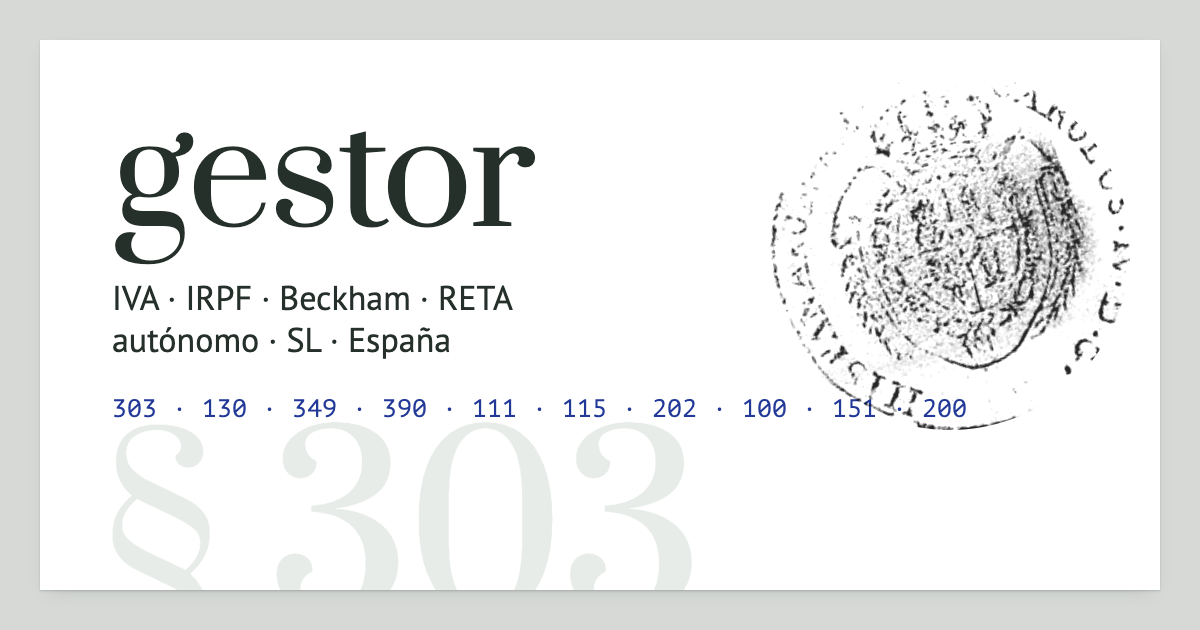
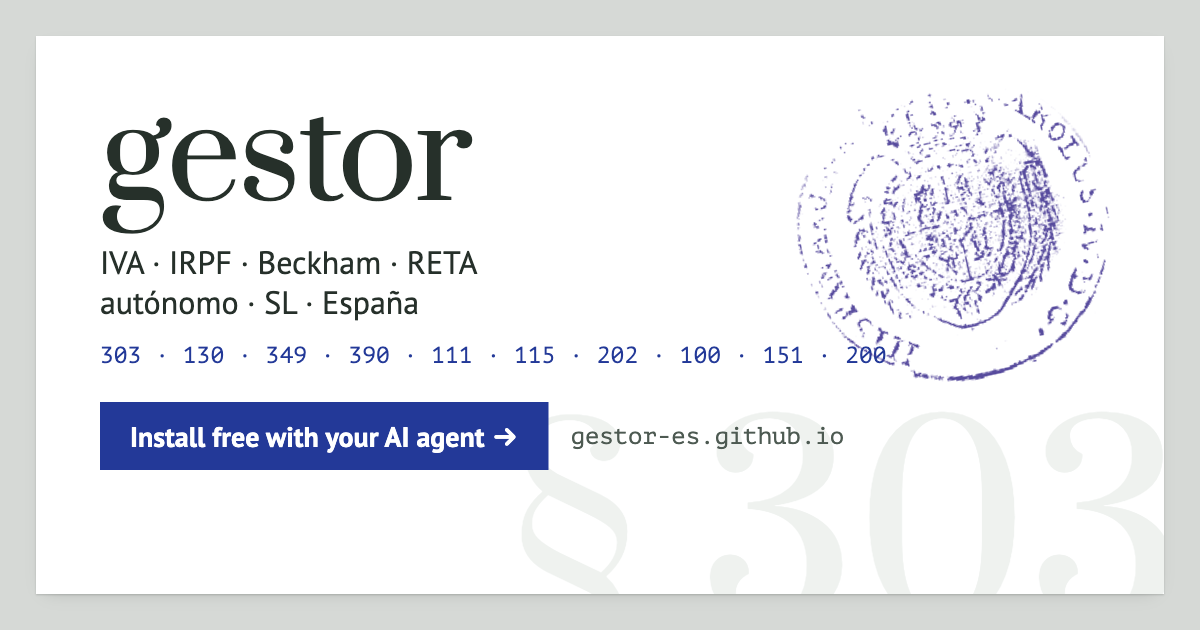
fix: stamp-ink seal, OG image with call to action, shorter descriptions

diff --git a/ru/explainer/index.html b/ru/explainer/index.html
@@ -4,7 +4,7 @@
 <meta charset="utf-8">
 <meta name="viewport" content="width=device-width, initial-scale=1">
 <title>Как работает gestor: один счёт и один квартал на вымышленном профиле</title>
-<meta name="description" content="Как работает gestor на вымышленном autónomo в режиме Beckham: из чего состоит программа, путь одного счёта до модели 303 и разобранный квартал с законом за каждой суммой.">
+<meta name="description" content="Как работает gestor на вымышленном autónomo в Beckham: части программы, путь счёта до модели 303 и квартал с законом за каждой суммой.">
 <link rel="canonical" href="https://gestor-es.github.io/ru/explainer/">
 <link rel="alternate" hreflang="en" href="https://gestor-es.github.io/explainer/">
 <link rel="alternate" hreflang="es" href="https://gestor-es.github.io/es/explainer/">
@@ -16,8 +16,8 @@
 <meta property="og:locale" content="ru_RU">
 <meta property="og:url" content="https://gestor-es.github.io/ru/explainer/">
 <meta property="og:title" content="Как работает gestor: один счёт и один квартал на вымышленном профиле">
-<meta property="og:description" content="Как работает gestor на вымышленном autónomo в режиме Beckham: из чего состоит программа, путь одного счёта до модели 303 и разобранный квартал с законом за каждой суммой.">
-<meta property="og:image" content="https://gestor-es.github.io/og.png">
+<meta property="og:description" content="Как работает gestor на вымышленном autónomo в Beckham: части программы, путь счёта до модели 303 и квартал с законом за каждой суммой.">
+<meta property="og:image" content="https://gestor-es.github.io/og.png?v=2">
 <meta name="twitter:card" content="summary_large_image">
 <script type="application/ld+json">
 {
@@ -29,7 +29,7 @@
    "description": "Как работает gestor на вымышленном autónomo в режиме Beckham: из чего состоит программа, путь одного счёта до модели 303 и разобранный квартал с законом за каждой суммой.",
    "inLanguage": "ru",
    "url": "https://gestor-es.github.io/ru/explainer/",
-   "image": "https://gestor-es.github.io/og.png",
+   "image": "https://gestor-es.github.io/og.png?v=2",
    "dateModified": "2026-10-13",
    "author": {
     "@type": "Organization",

diff --git a/ru/index.html b/ru/index.html
@@ -4,7 +4,7 @@
 <meta charset="utf-8">
 <meta name="viewport" content="width=device-width, initial-scale=1">
 <title>gestor: бесплатный локальный налоговый помощник для autónomo и SL в Испании</title>
-<meta name="description" content="Бесплатный gestor с открытым кодом для autónomo и SL в Испании. Считает IVA, IRPF, Beckham, RETA и модели 303, 130, 349, 390, 111, 115, 202 и объясняет каждую сумму законом. Работает на вашем компьютере, ставит его ваш ИИ-агент.">
+<meta name="description" content="Бесплатный налоговый помощник с открытым кодом для autónomo и SL в Испании: IVA, IRPF, Beckham, RETA, модели 303 и 130, с законом за каждой суммой.">
 <link rel="canonical" href="https://gestor-es.github.io/ru/">
 <link rel="alternate" hreflang="en" href="https://gestor-es.github.io/">
 <link rel="alternate" hreflang="es" href="https://gestor-es.github.io/es/">
@@ -17,7 +17,7 @@
 <meta property="og:url" content="https://gestor-es.github.io/ru/">
 <meta property="og:title" content="gestor: бесплатный локальный налоговый помощник для autónomo и SL в Испании">
 <meta property="og:description" content="Считает ваши декларации и объясняет каждую сумму законом. Подаёте вы сами. Открытый код, MIT.">
-<meta property="og:image" content="https://gestor-es.github.io/og.png">
+<meta property="og:image" content="https://gestor-es.github.io/og.png?v=2">
 <meta property="og:image:width" content="1200">
 <meta property="og:image:height" content="630">
 <meta property="og:image:alt" content="gestor: IVA, IRPF, Beckham, RETA для autónomo и SL в Испании">
@@ -32,7 +32,7 @@
       "@id": "https://gestor-es.github.io/#app",
       "name": "gestor",
       "url": "https://gestor-es.github.io/ru/",
-      "image": "https://gestor-es.github.io/og.png",
+      "image": "https://gestor-es.github.io/og.png?v=2",
       "description": "Локальный gestor для autónomo и SL в Испании: счета, расходы, IVA/IRPF/Beckham/SL, RETA и календарь подач. Считает декларации и объясняет каждую сумму законом; подаёт пользователь сам.",
       "applicationCategory": "FinanceApplication",
       "operatingSystem": "Любая система с Python 3.12+",

diff --git a/es/explainer/index.html b/es/explainer/index.html
@@ -4,7 +4,7 @@
 <meta charset="utf-8">
 <meta name="viewport" content="width=device-width, initial-scale=1">
 <title>Cómo funciona gestor: una factura y un trimestre con un perfil ficticio</title>
-<meta name="description" content="Cómo funciona gestor con un autónomo ficticio en régimen Beckham: las partes del programa, el recorrido de una factura hasta el modelo 303 y un trimestre resuelto con la norma detrás de cada importe.">
+<meta name="description" content="Cómo funciona gestor con un autónomo ficticio en Beckham: las partes, una factura hasta el modelo 303 y un trimestre con la norma detrás de cada importe.">
 <link rel="canonical" href="https://gestor-es.github.io/es/explainer/">
 <link rel="alternate" hreflang="en" href="https://gestor-es.github.io/explainer/">
 <link rel="alternate" hreflang="es" href="https://gestor-es.github.io/es/explainer/">
@@ -16,8 +16,8 @@
 <meta property="og:locale" content="es_ES">
 <meta property="og:url" content="https://gestor-es.github.io/es/explainer/">
 <meta property="og:title" content="Cómo funciona gestor: una factura y un trimestre con un perfil ficticio">
-<meta property="og:description" content="Cómo funciona gestor con un autónomo ficticio en régimen Beckham: las partes del programa, el recorrido de una factura hasta el modelo 303 y un trimestre resuelto con la norma detrás de cada importe.">
-<meta property="og:image" content="https://gestor-es.github.io/og.png">
+<meta property="og:description" content="Cómo funciona gestor con un autónomo ficticio en Beckham: las partes, una factura hasta el modelo 303 y un trimestre con la norma detrás de cada importe.">
+<meta property="og:image" content="https://gestor-es.github.io/og.png?v=2">
 <meta name="twitter:card" content="summary_large_image">
 <script type="application/ld+json">
 {
@@ -29,7 +29,7 @@
    "description": "Cómo funciona gestor con un autónomo ficticio en régimen Beckham: las partes del programa, el recorrido de una factura hasta el modelo 303 y un trimestre resuelto con la norma detrás de cada importe.",
    "inLanguage": "es",
    "url": "https://gestor-es.github.io/es/explainer/",
-   "image": "https://gestor-es.github.io/og.png",
+   "image": "https://gestor-es.github.io/og.png?v=2",
    "dateModified": "2026-10-13",
    "author": {
     "@type": "Organization",

diff --git a/explainer/index.html b/explainer/index.html
@@ -4,7 +4,7 @@
 <meta charset="utf-8">
 <meta name="viewport" content="width=device-width, initial-scale=1">
 <title>How gestor works: one invoice and one quarter on a fictional profile</title>
-<meta name="description" content="How gestor works on a fictional autónomo under the Beckham regime: the parts of the program, the path of one invoice into Modelo 303, and a quarter worked through with the law behind each amount.">
+<meta name="description" content="How gestor works on a fictional autónomo under Beckham: the parts of the program, one invoice into Modelo 303, and a quarter with the law behind each amount.">
 <link rel="canonical" href="https://gestor-es.github.io/explainer/">
 <link rel="alternate" hreflang="en" href="https://gestor-es.github.io/explainer/">
 <link rel="alternate" hreflang="es" href="https://gestor-es.github.io/es/explainer/">
@@ -16,8 +16,8 @@
 <meta property="og:locale" content="en_US">
 <meta property="og:url" content="https://gestor-es.github.io/explainer/">
 <meta property="og:title" content="How gestor works: one invoice and one quarter on a fictional profile">
-<meta property="og:description" content="How gestor works on a fictional autónomo under the Beckham regime: the parts of the program, the path of one invoice into Modelo 303, and a quarter worked through with the law behind each amount.">
-<meta property="og:image" content="https://gestor-es.github.io/og.png">
+<meta property="og:description" content="How gestor works on a fictional autónomo under Beckham: the parts of the program, one invoice into Modelo 303, and a quarter with the law behind each amount.">
+<meta property="og:image" content="https://gestor-es.github.io/og.png?v=2">
 <meta name="twitter:card" content="summary_large_image">
 <script type="application/ld+json">
 {
@@ -29,7 +29,7 @@
    "description": "How gestor works on a fictional autónomo under the Beckham regime: the parts of the program, the path of one invoice into Modelo 303, and a quarter worked through with the law behind each amount.",
    "inLanguage": "en",
    "url": "https://gestor-es.github.io/explainer/",
-   "image": "https://gestor-es.github.io/og.png",
+   "image": "https://gestor-es.github.io/og.png?v=2",
    "dateModified": "2026-10-13",
    "author": {
     "@type": "Organization",

diff --git a/es/index.html b/es/index.html
@@ -4,7 +4,7 @@
 <meta charset="utf-8">
 <meta name="viewport" content="width=device-width, initial-scale=1">
 <title>gestor: app fiscal gratuita y local para autónomos y SL en España</title>
-<meta name="description" content="Gestor gratuito y de código abierto para autónomos y SL en España. Calcula IVA, IRPF, Beckham, RETA y los modelos 303, 130, 349, 390, 111, 115 y 202 con la norma detrás de cada importe. Funciona en local; lo instala su agente de IA.">
+<meta name="description" content="App fiscal gratuita y de código abierto para autónomos y SL: IVA, IRPF, Beckham, RETA, modelos 303 y 130, con la norma detrás de cada importe. En local.">
 <link rel="canonical" href="https://gestor-es.github.io/es/">
 <link rel="alternate" hreflang="en" href="https://gestor-es.github.io/">
 <link rel="alternate" hreflang="es" href="https://gestor-es.github.io/es/">
@@ -17,7 +17,7 @@
 <meta property="og:url" content="https://gestor-es.github.io/es/">
 <meta property="og:title" content="gestor: app fiscal gratuita y local para autónomos y SL en España">
 <meta property="og:description" content="Calcula sus declaraciones y explica cada importe con la norma. La presentación la hace usted. Código abierto, MIT.">
-<meta property="og:image" content="https://gestor-es.github.io/og.png">
+<meta property="og:image" content="https://gestor-es.github.io/og.png?v=2">
 <meta property="og:image:width" content="1200">
 <meta property="og:image:height" content="630">
 <meta property="og:image:alt" content="gestor: IVA, IRPF, Beckham, RETA para autónomos y SL en España">
@@ -32,7 +32,7 @@
       "@id": "https://gestor-es.github.io/#app",
       "name": "gestor",
       "url": "https://gestor-es.github.io/es/",
-      "image": "https://gestor-es.github.io/og.png",
+      "image": "https://gestor-es.github.io/og.png?v=2",
       "description": "Gestor local para autónomos y SL en España: facturas, gastos, IVA/IRPF/Beckham/SL, RETA y calendario de presentaciones. Calcula las declaraciones y explica cada importe con la norma; la presentación la hace el usuario.",
       "applicationCategory": "FinanceApplication",
       "operatingSystem": "Cualquier sistema con Python 3.12+",

diff --git a/index.html b/index.html
@@ -4,7 +4,7 @@
 <meta charset="utf-8">
 <meta name="viewport" content="width=device-width, initial-scale=1">
 <title>gestor: free local tax app for autónomos and SLs in Spain</title>
-<meta name="description" content="Free, open-source gestor for autónomos and SLs in Spain. Computes IVA, IRPF, Beckham, RETA and Modelos 303, 130, 349, 390, 111, 115, 202 with the law behind every amount. Runs locally; your AI agent installs it.">
+<meta name="description" content="Free open-source tax app for autónomos and SLs in Spain: IVA, IRPF, Beckham, RETA, Modelo 303 and 130, with the law behind every amount. Runs locally.">
 <meta name="google-site-verification" content="sjse89eWj43Bo3XVdXr1GHbNTwViSiH6IMM6jxyB80k">
 <link rel="canonical" href="https://gestor-es.github.io/">
 <link rel="alternate" hreflang="en" href="https://gestor-es.github.io/">
@@ -18,7 +18,7 @@
 <meta property="og:url" content="https://gestor-es.github.io/">
 <meta property="og:title" content="gestor: free local tax app for autónomos and SLs in Spain">
 <meta property="og:description" content="Computes your Spanish returns and explains every amount with the law. You file them yourself. Open source, MIT.">
-<meta property="og:image" content="https://gestor-es.github.io/og.png">
+<meta property="og:image" content="https://gestor-es.github.io/og.png?v=2">
 <meta property="og:image:width" content="1200">
 <meta property="og:image:height" content="630">
 <meta property="og:image:alt" content="gestor: IVA, IRPF, Beckham, RETA for autónomos and SLs in Spain">
@@ -48,7 +48,7 @@
       "@id": "https://gestor-es.github.io/#app",
       "name": "gestor",
       "url": "https://gestor-es.github.io/",
-      "image": "https://gestor-es.github.io/og.png",
+      "image": "https://gestor-es.github.io/og.png?v=2",
       "description": "Local gestor for autónomos and SLs in Spain: invoices, expenses, IVA/IRPF/Beckham/SL, RETA and a filing calendar. Computes returns and explains every amount with the law; the user files them.",
       "applicationCategory": "FinanceApplication",
       "operatingSystem": "Any OS with Python 3.12+",

diff --git a/style.css b/style.css
@@ -32,11 +32,10 @@ h2 { margin: 14px 0 12px; font: 400 32px/1.15 var(--display); }
 .lead { max-width: 36em; margin: 0 0 20px; font-size: 20px; line-height: 1.45; }
 .sub { max-width: 44em; margin: 0 0 18px; color: var(--print-2); }
 
-/* hero: the coat-of-arms seal from the papel sellado, struck over the corner of the sheet */
+/* hero: the coat-of-arms seal of the papel sellado (Carolus IV, 1806, public domain), extracted as stamp ink (img/seal.png, 232 px) */
 .hero { position: relative; padding-bottom: 8px; }
-.seal { position: absolute; top: -18px; right: -8px; width: 300px; aspect-ratio: 1; border-radius: 50%; pointer-events: none;
-  background: url(/img/papel-sellado.jpg) no-repeat; background-size: 1132px auto; background-position: -40px -57px;
-  filter: grayscale(1) contrast(1.4); mix-blend-mode: multiply; opacity: .85; transform: rotate(-14deg); }
+.seal { position: absolute; top: 6px; right: 24px; width: 232px; aspect-ratio: 1; pointer-events: none;
+  background: url(/img/seal.png) center / contain no-repeat; opacity: .9; transform: rotate(-12deg); }
 .hero .stamps { display: flex; flex-wrap: wrap; align-items: center; gap: 12px 16px; margin: 0 0 28px; }
 .stamp { display: inline-block; padding: 4px 10px 3px; border: 1.5px solid currentColor; font: 700 13px/1.3 var(--sans);
   letter-spacing: .08em; text-transform: uppercase; white-space: nowrap; }
@@ -131,7 +130,7 @@ dd { margin: 6px 0 0; }
   .appbar { padding: 12px 14px 10px; gap: 8px 18px; flex-wrap: wrap; }
   .appbar nav { order: 3; flex-basis: 100%; }
   main { padding-top: 30px; }
-  .seal { width: 170px; background-size: 642px auto; background-position: -23px -32px; top: -24px; right: -40px; opacity: .35; }
+  .seal { width: 130px; top: -10px; right: -18px; opacity: .45; }
   h1 { max-width: none; }
   .lead { font-size: 18px; }
   .junction { margin-top: 34px; }

diff --git a/ru/kb/sociedad-limitada/index.html b/ru/kb/sociedad-limitada/index.html
@@ -17,7 +17,7 @@
 <meta property="og:url" content="https://gestor-es.github.io/ru/kb/sociedad-limitada/">
 <meta property="og:title" content="Sociedad Limitada с одним участником-администратором: налоги и отчётность">
 <meta property="og:description" content="IS (Impuesto sobre Sociedades) платит сама SL, а не участник. Общая ставка составляет 25 %. Для «microempresa» (INCN предыдущего периода &lt; 1 M€) применяется…">
-<meta property="og:image" content="https://gestor-es.github.io/og.png">
+<meta property="og:image" content="https://gestor-es.github.io/og.png?v=2">
 <meta name="twitter:card" content="summary_large_image">
 <script type="application/ld+json">
 {
@@ -30,7 +30,7 @@
    "inLanguage": "ru",
    "dateModified": "2026-10-13",
    "url": "https://gestor-es.github.io/ru/kb/sociedad-limitada/",
-   "image": "https://gestor-es.github.io/og.png",
+   "image": "https://gestor-es.github.io/og.png?v=2",
    "isBasedOn": "https://github.com/gestor-es/gestor-es/blob/main/kb/ru/sociedad-limitada.md",
    "author": {
     "@type": "Organization",

diff --git a/ru/kb/calendario-presentacion/index.html b/ru/kb/calendario-presentacion/index.html
@@ -17,7 +17,7 @@
 <meta property="og:url" content="https://gestor-es.github.io/ru/kb/calendario-presentacion/">
 <meta property="og:title" content="Налоговый календарь Испании 2026 для autónomo и SL">
 <meta property="og:description" content="Проверено по доступным первичным источникам на 08.10.2026. Год доходов (ejercicio) и год подачи — разные поля. Годовые декларации за ejercicio 2025 подаются…">
-<meta property="og:image" content="https://gestor-es.github.io/og.png">
+<meta property="og:image" content="https://gestor-es.github.io/og.png?v=2">
 <meta name="twitter:card" content="summary_large_image">
 <script type="application/ld+json">
 {
@@ -30,7 +30,7 @@
    "inLanguage": "ru",
    "dateModified": "2026-10-13",
    "url": "https://gestor-es.github.io/ru/kb/calendario-presentacion/",
-   "image": "https://gestor-es.github.io/og.png",
+   "image": "https://gestor-es.github.io/og.png?v=2",
    "isBasedOn": "https://github.com/gestor-es/gestor-es/blob/main/kb/ru/calendario-presentacion.md",
    "author": {
     "@type": "Organization",

diff --git a/ru/kb/visados/index.html b/ru/kb/visados/index.html
@@ -17,7 +17,7 @@
 <meta property="og:url" content="https://gestor-es.github.io/ru/kb/visados/">
 <meta property="og:title" content="Визы, резиденция, налоги и соцстрах для autónomo в Испании">
 <meta property="og:description" content="Предприниматель (emprendedor): ст. 93.1.b).3.º допускает «осуществление в Испании экономической деятельности, квалифицированной как предпринимательская…">
-<meta property="og:image" content="https://gestor-es.github.io/og.png">
+<meta property="og:image" content="https://gestor-es.github.io/og.png?v=2">
 <meta name="twitter:card" content="summary_large_image">
 <script type="application/ld+json">
 {
@@ -30,7 +30,7 @@
    "inLanguage": "ru",
    "dateModified": "2026-10-13",
    "url": "https://gestor-es.github.io/ru/kb/visados/",
-   "image": "https://gestor-es.github.io/og.png",
+   "image": "https://gestor-es.github.io/og.png?v=2",
    "isBasedOn": "https://github.com/gestor-es/gestor-es/blob/main/kb/ru/visados.md",
    "author": {
     "@type": "Organization",

diff --git a/ru/kb/irpf-autonomo/index.html b/ru/kb/irpf-autonomo/index.html
@@ -17,7 +17,7 @@
 <meta property="og:url" content="https://gestor-es.github.io/ru/kb/irpf-autonomo/">
 <meta property="og:title" content="IRPF для autónomo в Испании: правила, цифры и модель 130">
 <meta property="og:description" content="Область: физическое лицо, налоговый резидент Испании, обычный IRPF, экономическая деятельность в режиме estimación directa simplificada (EDS). Это не расчёт…">
-<meta property="og:image" content="https://gestor-es.github.io/og.png">
+<meta property="og:image" content="https://gestor-es.github.io/og.png?v=2">
 <meta name="twitter:card" content="summary_large_image">
 <script type="application/ld+json">
 {
@@ -30,7 +30,7 @@
    "inLanguage": "ru",
    "dateModified": "2026-10-13",
    "url": "https://gestor-es.github.io/ru/kb/irpf-autonomo/",
-   "image": "https://gestor-es.github.io/og.png",
+   "image": "https://gestor-es.github.io/og.png?v=2",
    "isBasedOn": "https://github.com/gestor-es/gestor-es/blob/main/kb/ru/irpf-autonomo.md",
    "author": {
     "@type": "Organization",

diff --git a/ru/kb/beckham/index.html b/ru/kb/beckham/index.html
@@ -17,7 +17,7 @@
 <meta property="og:url" content="https://gestor-es.github.io/ru/kb/beckham/">
 <meta property="og:title" content="Закон Бекхэма (art. 93 LIRPF) для autónomo и администратора SL">
 <meta property="og:description" content="Beckham = налоговый резидент Испании, который по своему выбору платит IRPF по правилам IRNR для доходов, полученных «без посредничества постоянного…">
-<meta property="og:image" content="https://gestor-es.github.io/og.png">
+<meta property="og:image" content="https://gestor-es.github.io/og.png?v=2">
 <meta name="twitter:card" content="summary_large_image">
 <script type="application/ld+json">
 {
@@ -30,7 +30,7 @@
    "inLanguage": "ru",
    "dateModified": "2026-10-13",
    "url": "https://gestor-es.github.io/ru/kb/beckham/",
-   "image": "https://gestor-es.github.io/og.png",
+   "image": "https://gestor-es.github.io/og.png?v=2",
    "isBasedOn": "https://github.com/gestor-es/gestor-es/blob/main/kb/ru/beckham.md",
    "author": {
     "@type": "Organization",
